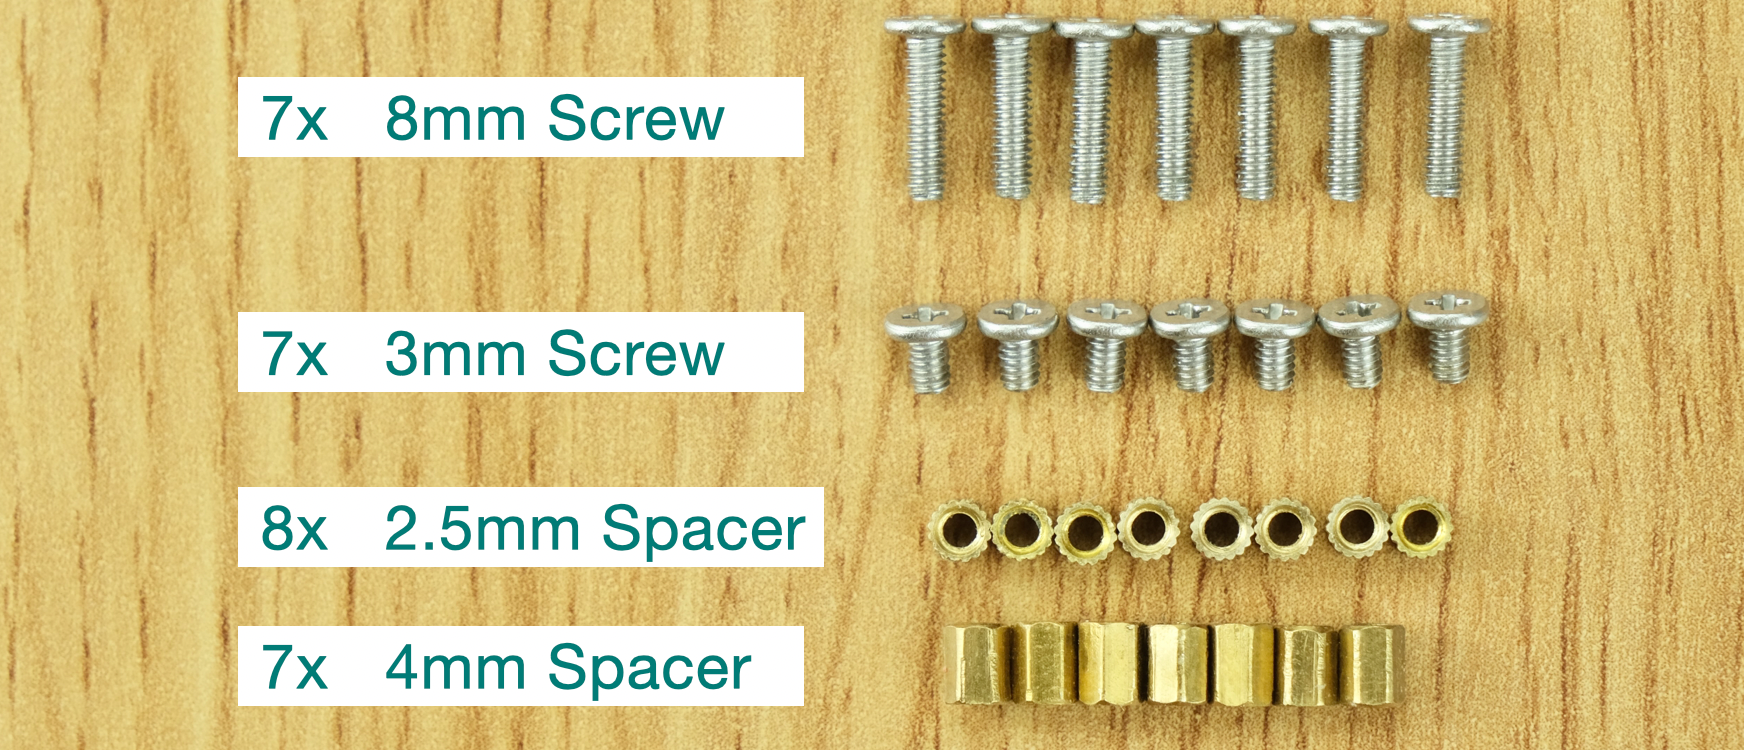
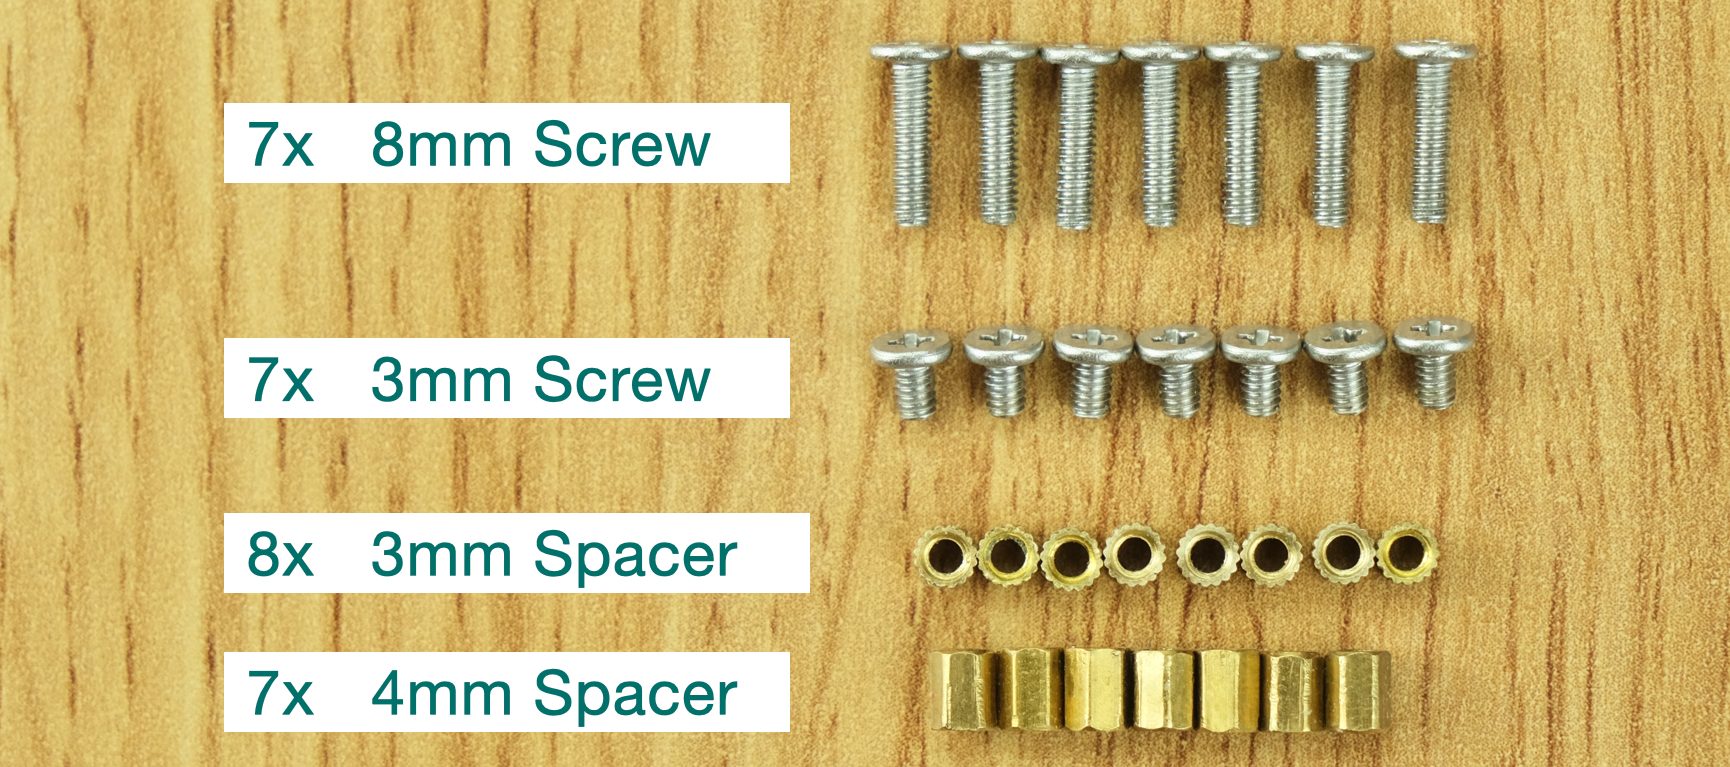
added reminders for height fix

diff --git a/doc/kit_assembly.md b/doc/kit_assembly.md
@@ -4,7 +4,7 @@
 
 ------
 
-Thanks for purchasing duckyPad Pro!
+Thanks for getting duckyPad Pro!
 
 Here's how to put everything together.
 
@@ -16,7 +16,7 @@ Join our [Official Discord](https://discord.gg/4sJCBx5) for discussions and late
 
 A small **Phillips-head screwdriver** (`+`shape) should be provided in the package.
 
-A **pair of pliers** also helps, but not required.
+A socket bit or **pair of pliers** also helps, but not required.
 
 ## Assembly Steps
 
@@ -28,7 +28,17 @@ As well as the following fasteners:
 
 ![Alt text](../resources/photos/instructions/fast.png)
 
-* Before we start, **go wash your hands** to discharge static electricity.
+Pay special attention to the **brass spacers**!
+
+![Alt text](../resources/photos/instructions/4mm3mm.png)
+
+* One is **slightly shorter** than the other.
+
+* Separate them out before starting, don't mix them up!
+
+----------
+
+Before we start, **go wash your hands** to discharge static electricity.
 
 First, the antenna cable.
 
@@ -48,7 +58,6 @@ Adjust the cable to avoid overlapping any components.
 
 ![Alt text](../resources/photos/instructions/overlap.png)
 
-
 Hold the `Back Plate` **in the orientation shown**.
 
 Insert `8mm` and `3mm` screws.
@@ -57,17 +66,27 @@ Insert `8mm` and `3mm` screws.
 
 Place **something rigid** against the back, and flip over. The screws should stay in place.
 
-Put on **2.5mm spacers**.
+Put on **3mm spacers** (the slightly shorter one)
 
-**Moderately** tighten, use pliers if available.
-
-It shouldn't rattle when shaken.
+Moderately tighten, with a socket bit if available. It shouldn't rattle when shaken.
 
 ![Alt text](../resources/photos/instructions/3mm.jpeg)
 
+🚨🚨🚨🚨🚨🚨🚨🚨🚨🚨🚨🚨🚨🚨🚨🚨🚨🚨🚨🚨🚨🚨
+
+If your Kickstarter Backer Number is **PRIOR TO 155**
+
+If your Kickstarter Backer Number is **PRIOR TO 155**
+
+If your Kickstarter Backer Number is **PRIOR TO 155**
+
+[Follow this guide to fix a minor clearance issue](errata.md).
+
+🚨🚨🚨🚨🚨🚨🚨🚨🚨🚨🚨🚨🚨🚨🚨🚨🚨🚨🚨🚨🚨🚨
+
 Install the circuit board, then `4mm spacers`.
 
-* Moderately tighten with a socket bit if available
+* Moderately tighten
 
 * If using pliers, avoid scratching the PCB or nearby components.
 

diff --git a/doc/errata.md b/doc/errata.md
@@ -4,7 +4,7 @@ This guide shows how to resolve an issue where a component presses against the b
 
 ## Who's Affected?
 
-* Kickstarter backer number **prior and including 155 (Nov 27 2024)**
+* Kickstarter backer number **prior to (and including) 155**
 
 If your backer number is greater than 155, it is already fixed!
 
